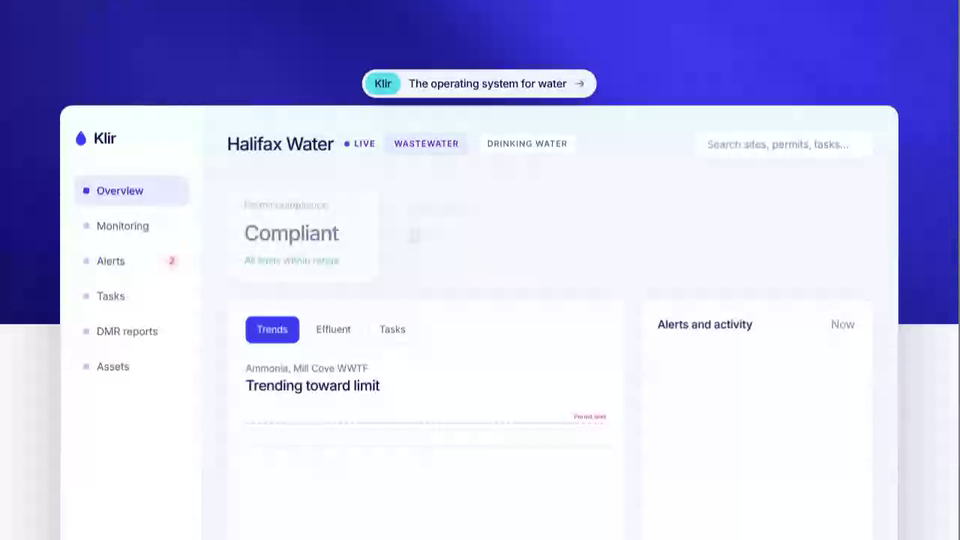
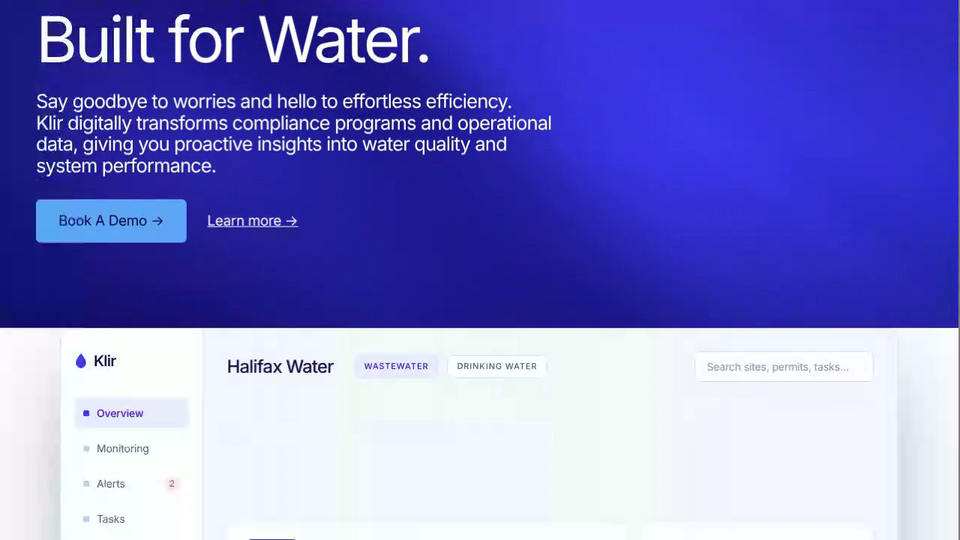
Klir Landing Page: purple all-caps chart hover label (#451)
* Add Klir Wayfinding: scroll-driven blue wayfinding line with waterdrop pin and curve marks

Claude-Session: https://claude.ai/code/session_01AHeBdxxJMjuAF9w67sWwW5

* Klir Wayfinding: Clio-style water hero, drop appears on scroll (white to blue), thinner curves, no dotted track

Claude-Session: https://claude.ai/code/session_01AHeBdxxJMjuAF9w67sWwW5

* Klir Wayfinding: TerraPower-style content with gooey hover images, 'Built for Water.' on one line

Claude-Session: https://claude.ai/code/session_01AHeBdxxJMjuAF9w67sWwW5

* Klir Wayfinding: white teardrop nodes on the line, no dot beside eyebrows

Claude-Session: https://claude.ai/code/session_01AHeBdxxJMjuAF9w67sWwW5

* Klir Wayfinding: customers section with the largest US municipal water agencies after the hero

Claude-Session: https://claude.ai/code/session_01AHeBdxxJMjuAF9w67sWwW5

* Klir Wayfinding: thin gradient wayfinding line with faded edges

Claude-Session: https://claude.ai/code/session_01AHeBdxxJMjuAF9w67sWwW5

* Rename to Klir Landing Page, nav arrows, remove line curves, thinner teardrop outline

Claude-Session: https://claude.ai/code/session_01AHeBdxxJMjuAF9w67sWwW5

* Klir Landing Page: Clio-style blue footer CTA, line fades at marked points, drop limited to the line

Claude-Session: https://claude.ai/code/session_01AHeBdxxJMjuAF9w67sWwW5

* Klir Landing Page: Halifax Water UI screen rising from the hero bottom on scroll, sky blue hero buttons
[…]

diff --git a/klir-landing-page/index.html b/klir-landing-page/index.html
@@ -200,6 +200,7 @@ footer p{font-size:clamp(18px,1.8vw,22px);letter-spacing:-.02em;max-width:30em;m
 .livet:before{content:"";width:7px;height:7px;border-radius:50%;background:var(--blue);animation:pl 1.6s infinite}
 .top .tab{font-size:11px;padding:6px 12px;cursor:pointer;transition:background .2s,color .2s}.top .tab:first-of-type{margin-left:10px}
 .top .tab.on{background:#ecebff;border-color:#dcdaff;color:var(--indigo)}.top .tab:hover:not(.on){background:#f1f0ff}
+.feed h4 span.livet{color:var(--indigo);font-weight:600;margin-left:0}
 </style>
 </head>
 <body>
@@ -220,13 +221,13 @@ footer p{font-size:clamp(18px,1.8vw,22px);letter-spacing:-.02em;max-width:30em;m
 <main id="top">
 <div class="uiwrap" id="ui"><a class="pill" id="pill" href="https://www.klir.com/" target="_blank" rel="noopener"><span class="pb">Klir</span><span class="pt">The operating system for water</span><svg viewBox="0 0 24 24" width="16" height="16" fill="none" stroke="currentColor" stroke-width="2" stroke-linecap="round" stroke-linejoin="round"><path d="M5 12h14M13 6l6 6-6 6"/></svg></a><div class="app" aria-label="Water management dashboard preview">
 <aside><div class="brand"><svg width="18" height="22" viewBox="-12 -16 24 32"><use href="#drop" fill="#3b3bef"/></svg>Klir</div><ul><li class=on><i></i>Overview</li><li><i></i>Monitoring</li><li><i></i>Alerts<em>2</em></li><li><i></i>Tasks</li><li><i></i>DMR reports</li><li><i></i>Assets</li></ul></aside>
-<div class="mn"><div class="top"><h3>Halifax Water</h3><span class="livet">Live</span><span class="chip tab on">Wastewater</span><span class="chip tab">Drinking water</span><div class="srch">Search sites, permits, tasks…</div></div>
+<div class="mn"><div class="top"><h3>Halifax Water</h3><span class="chip tab on">Wastewater</span><span class="chip tab">Drinking water</span><div class="srch">Search sites, permits, tasks…</div></div>
 <div class="ks"><div class="k"><small>Permit compliance</small><b>Compliant</b><span class="gr">All limits within range</span></div><div class="k"><small>Open alerts</small><b data-n="2">0</b><span class="am">1 warning, 1 advisory</span></div><div class="k"><small>Tasks due this week</small><b data-n="7">0</b><span class="">5 on track</span></div><div class="k"><small>DMR reporting</small><b>Ready</b><span class="">Next submission Dec 15</span></div></div>
 <div class="body"><div class="panel"><div class="tabs"><span class="on">Trends</span><span>Effluent</span><span>Tasks</span></div>
 <div class="pane on" data-p="0"><div class="ch"><div class="chh"><div><small>Ammonia, Mill Cove WWTF</small><b>Trending toward limit</b></div><span class="tag" id="tg">Warning at 80%</span></div>
-<svg viewBox="0 0 640 220" width="100%"><g stroke="#e6e5f6"><path d="M0 40H640M0 100H640M0 160H640"/></g><g id="wl" style="transition:opacity .3s"><path d="M0 70H640" stroke="#e0a23a" stroke-dasharray="5 6"/><text id="wlab" x="636" y="62" text-anchor="end" font-size="11" fill="#b9791a" style="opacity:0;transition:opacity .5s">Warning 80%</text></g><path d="M0 30H640" stroke="#d8505f" stroke-dasharray="5 6"/><text x="636" y="22" text-anchor="end" font-size="11" fill="#c23a4b">Permit limit</text><path id="trend" pathLength="1" d="M0 170C60 165 100 175 150 160S250 150 300 135 400 120 450 105 540 85 600 78" fill="none" stroke="#3b3bef" stroke-width="2.5"/><g id="dot" opacity="0"><circle r="11" fill="#3b3bef" opacity=".15"/><circle r="5" fill="#3b3bef"/></g><g id="tip" opacity="0" style="pointer-events:none"><path id="tl" d="M0 20V200" stroke="#3b3bef" stroke-opacity=".3"/><circle id="td" r="5" fill="#fff" stroke="#3b3bef" stroke-width="2"/><g id="tt"><rect x="-52" y="-40" width="104" height="24" rx="6" fill="#17094f"/><text id="tx" text-anchor="middle" y="-24" font-size="11.5" fill="#fff"></text></g></g></svg></div>
+<svg viewBox="0 0 640 220" width="100%"><g stroke="#e6e5f6"><path d="M0 40H640M0 100H640M0 160H640"/></g><g id="wl" style="transition:opacity .3s"><path d="M0 70H640" stroke="#e0a23a" stroke-dasharray="5 6"/><text id="wlab" x="636" y="62" text-anchor="end" font-size="11" fill="#b9791a" style="opacity:0;transition:opacity .5s">Warning 80%</text></g><path d="M0 30H640" stroke="#d8505f" stroke-dasharray="5 6"/><text x="636" y="22" text-anchor="end" font-size="11" fill="#c23a4b">Permit limit</text><path id="trend" pathLength="1" d="M0 170C60 165 100 175 150 160S250 150 300 135 400 120 450 105 540 85 600 78" fill="none" stroke="#3b3bef" stroke-width="2.5"/><g id="dot" opacity="0"><circle r="11" fill="#3b3bef" opacity=".15"/><circle r="5" fill="#3b3bef"/></g><g id="tip" opacity="0" style="pointer-events:none"><path id="tl" d="M0 20V200" stroke="#3b3bef" stroke-opacity=".3"/><circle id="td" r="5" fill="#fff" stroke="#3b3bef" stroke-width="2"/><g id="tt"><rect x="-84" y="-48" width="168" height="32" rx="8" fill="#3a0fc9"/><text id="tx" text-anchor="middle" y="-28" font-size="10.5" font-weight="500" letter-spacing="1" fill="#fff"></text></g></g></svg></div>
 <div class="ctl"><div class="row"><div><b>Warning alert</b><span>Notify at 80% of limit</span></div><i class="sw" id="sw" role="switch" aria-checked="true" tabindex="0"></i></div><div class="row"><div><b>Notify</b><span>Operations team, on call</span></div><u>Edit</u></div></div></div><div class="pane" data-p="1"><div class="eff"><div class="er"><div><b>Ammonia</b><span>1.9 of 2.5 mg/L</span></div><div class="bar"><i style="--w:76%;background:#e0a23a"></i></div></div><div class="er"><div><b>BOD</b><span>12 of 25 mg/L</span></div><div class="bar"><i style="--w:48%;background:#3b3bef"></i></div></div><div class="er"><div><b>Suspended solids</b><span>9 of 30 mg/L</span></div><div class="bar"><i style="--w:30%;background:#3b3bef"></i></div></div><div class="er"><div><b>Chlorine residual</b><span>0.04 of 0.1 mg/L</span></div><div class="bar"><i style="--w:40%;background:#3b3bef"></i></div></div></div></div><div class="pane" data-p="2"><div class="tks"><label class="tk"><input type="checkbox"><div><b>Collect ammonia grab sample</b><span>Herring Cove WWTF · due tomorrow</span></div></label><label class="tk"><input type="checkbox"><div><b>Review November DMR</b><span>Mill Cove WWTF · due today</span></div></label><label class="tk"><input type="checkbox" checked><div><b>Calibrate pH probe</b><span>Eastern Passage · Friday</span></div></label></div></div></div>
-<div class="feed"><h4>Alerts and activity <span>Now</span></h4><div class="f"><i class="w"></i><div><b>Ammonia trending up</b><span>Mill Cove WWTF, 80% of permit limit in 6 days</span></div><time>9:41</time></div><div class="f"><i class="b"></i><div><b>DMR report ready</b><span>November effluent data reviewed, ready to submit</span></div><time>9:12</time></div><div class="f"><i class="a"></i><div><b>Sampling task due tomorrow</b><span>Herring Cove WWTF, assigned to J. MacLeod</span></div><time>8:30</time></div><div class="f"><i class="g"></i><div><b>Field data synced</b><span>14 bench sheets captured on mobile</span></div><time>8:05</time></div></div></div></div></div></div>
+<div class="feed"><h4>Alerts and activity <span class="livet">Live</span></h4><div class="f"><i class="w"></i><div><b>Ammonia trending up</b><span>Mill Cove WWTF, 80% of permit limit in 6 days</span></div><time>9:41</time></div><div class="f"><i class="b"></i><div><b>DMR report ready</b><span>November effluent data reviewed, ready to submit</span></div><time>9:12</time></div><div class="f"><i class="a"></i><div><b>Sampling task due tomorrow</b><span>Herring Cove WWTF, assigned to J. MacLeod</span></div><time>8:30</time></div><div class="f"><i class="g"></i><div><b>Field data synced</b><span>14 bench sheets captured on mobile</span></div><time>8:05</time></div></div></div></div></div></div>
 <svg id="path" aria-hidden="true">
   <defs>
     <path id="drop" d="M0-15C6-7 10-2 10 4a10 10 0 0 1-20 0C-10-2-6-7 0-15Z"/>
@@ -335,7 +336,7 @@ const sw=$('sw'),flip=()=>{const off=sw.classList.toggle('off');sw.setAttribute(
 sw.onclick=flip;sw.onkeydown=e=>{if(e.key==' '||e.key=='Enter'){e.preventDefault();flip()}};
 const tr=$('trend'),cs=tr.closest('svg'),TL=tr.getTotalLength();
 cs.addEventListener('pointermove',e=>{const r=cs.getBoundingClientRect(),x=Math.max(0,Math.min(600,(e.clientX-r.left)/r.width*640));let a=0,b=TL;for(let i=0;i<22;i++){const m=(a+b)/2;tr.getPointAtLength(m).x<x?a=m:b=m}
-const pt=tr.getPointAtLength(a),tx=Math.max(52,Math.min(588,pt.x));$('tip').setAttribute('opacity',1);$('tl').setAttribute('transform',`translate(${pt.x} 0)`);$('td').setAttribute('transform',`translate(${pt.x} ${pt.y})`);$('tt').setAttribute('transform',`translate(${tx} ${pt.y})`);$('tx').textContent='Ammonia '+(2.5-(pt.y-30)*.0125).toFixed(2)+' mg/L'});
+const pt=tr.getPointAtLength(a),tx=Math.max(84,Math.min(556,pt.x));$('tip').setAttribute('opacity',1);$('tl').setAttribute('transform',`translate(${pt.x} 0)`);$('td').setAttribute('transform',`translate(${pt.x} ${pt.y})`);$('tt').setAttribute('transform',`translate(${tx} ${pt.y})`);$('tx').textContent=('Ammonia '+(2.5-(pt.y-30)*.0125).toFixed(2)+' mg/L').toUpperCase()});
 cs.addEventListener('pointerleave',()=>$('tip').setAttribute('opacity',0));
 
 addEventListener('scroll',tick,{passive:true});addEventListener('resize',layout);
